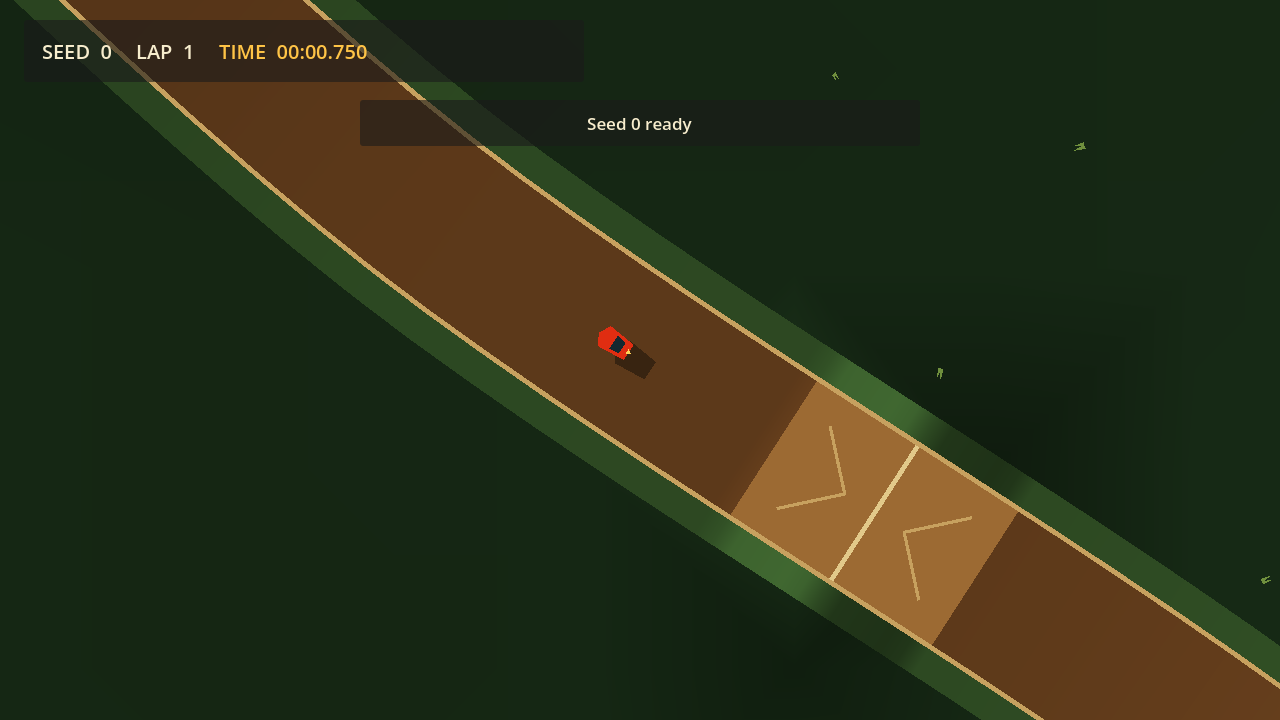
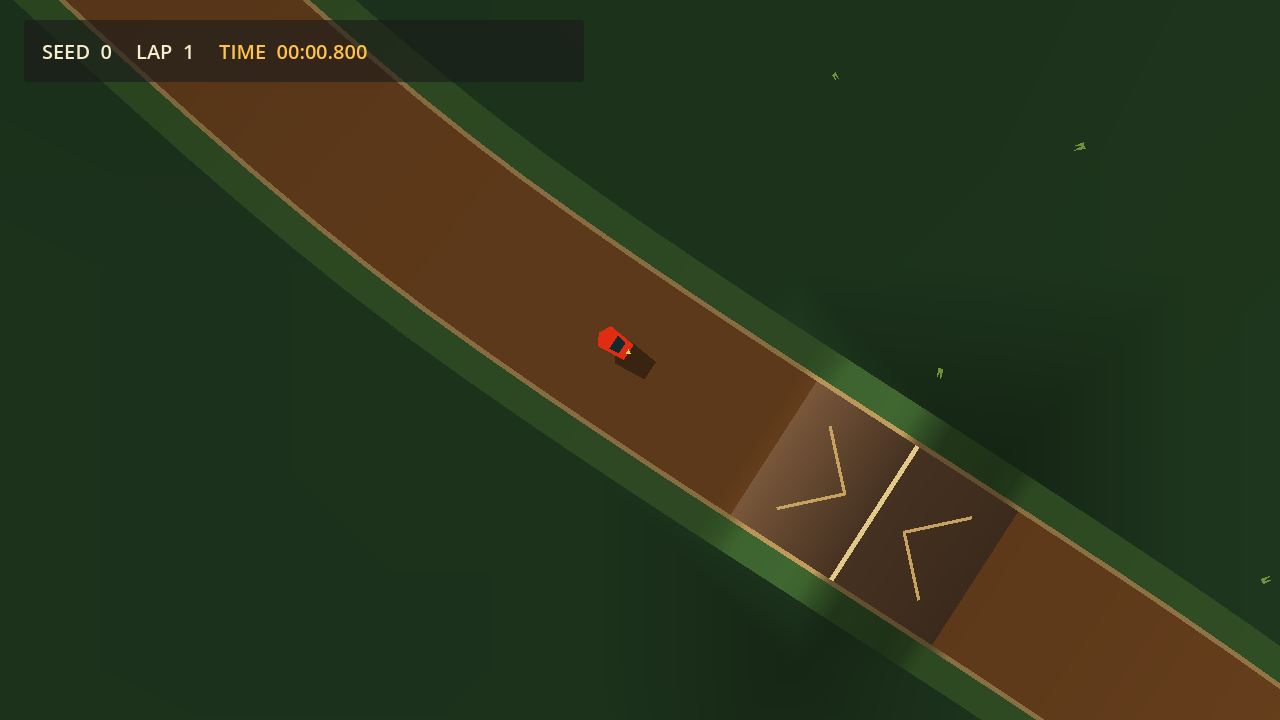
fix: shade the ramp wedges, lighten the ground, shade the boundary lines, pin the pre-clamp range
Review round 1 of #50. The wedges drew flat over shaded dirt, so a ramp in a hollow was the
brightest thing on screen; each wedge is now six vertices coloured from the same TrackHeightMap
1 px inside its corners, so it is as dark as its hollow, its crest 1.077x its feet, and its faces
lit from opposite sides. Ground base and session background lightened from #203a1e to #2b4b29 so
the multiplicative tint is a readable absolute step off-track; the guard is now an absolute
luminance spread. Boundary lines take a gradient like the ribbons. The clamped-against-its-clamp
range assertion is replaced by the pre-clamp product for every fill (wedge colour darkened to
#866040 to pass it; the boundary cream is the documented exception). on_feature coverage guards
on the grid and ribbons, a 5 px spawn floor on seed 10, both light signs on real terrain, the
null-query shadow direction, and the two self-comparisons dropped. Stills recaptured.

Claude-Session: https://claude.ai/code/session_01PJMEnk3Df8a182mzfdHNK5

diff --git a/docs/height-channel.md b/docs/height-channel.md
@@ -273,17 +273,37 @@ Two cues, one colour function, `TerrainShading.shade(base, sample)`:
   steepest saturates it. The gradient is the field's exact derivative, so the cue costs no second
   sample and no finite difference.
 
+The same function colours everything the track draws, so nothing can contradict the ground it
+sits on: the two road ribbons, the two boundary lines, and the ramp wedges. The first round left
+the wedges flat, and a ramp in a hollow drew as the brightest thing on screen — the exact failure
+this task exists to prevent; a wedge is now a six-point polygon (a foot, the crest and a foot on
+each side) coloured from the map 1 px inside each corner, so a ramp in a hollow is as dark as the
+hollow, its crest is 1.077× its feet from its own 9 px, and its two faces take the light from
+opposite sides from the wedge's own 0.06 slope (±0.17). Every fill colour is chosen so that base ×
+1.8 (full height and full light) stays inside the displayable range before the clamp — the wedge
+colour was darkened from `#9c6a33` to `#866040` for it; the boundary line's cream (`#c7a15f`,
+peak 1.405) is the one base that can saturate, and a 6 px line going toward white at the extreme
+is accepted.
+
 The ground is one `Polygon2D`: a vertex every 250 px over the play area, coloured from the sample
 at it, with the GPU interpolating between vertices. 250 px is the fingerprint and object-placement
 pitch; the finest octave the shipped catalog has is 750 px wide and 2.5 px tall, so three vertices
 per finest cell resolve everything the eye can see. Seed 0's 12 809 × 13 326 px play area is
 53 × 55 = 2 915 vertices; the largest of seeds 0–19 (seed 9, 16 962 × 14 684 px) is 69 × 60 = 4 140.
 At 4–5 µs a query that is 15–20 ms of sampling once per track build, measured at 7 µs a vertex
-all-in (colour arithmetic and array writes included), 20.6 ms for seed 0. The road ribbons stay
+all-in (colour arithmetic and array writes included), 20.6 ms for seed 0. With the four line
+gradients (about 4 × 1 100 samples, 22 ms) and six samples a wedge, a seed 0 build spends about
+45 ms on shading in all, once. The road ribbons stay
 `Line2D` nodes and take a `Gradient` with one stop per centreline sample — 1 102 to 1 496 more
 samples, 5–7 ms — placed by cumulative distance along the line, because that is how `Line2D`
-reads a gradient. Level ground is drawn in the session's background colour, so the play-area edge
-where the grid stops is not a seam. Rebuilding frees the previous grid; a seed restart frees the
+reads a gradient; the boundary lines take one the same way from their own points, another
+2 × 1 100–1 500 samples. Level ground is drawn in the session's background colour, so the play-area
+edge where the grid stops is not a seam. That colour was lightened in the fix round from `#203a1e`
+to `#2b4b29` (both the ground base and the background `ColorRect`): the shading is multiplicative,
+so on the darker base a 45% swing was a small absolute step and the off-track ground read as nearly
+flat next to the dirt; the suite now asserts an absolute luminance spread of at least 0.15 across
+the seed 0 grid (0.124 to 0.365 as shipped) rather than a relative one that a near-black base would
+pass. Rebuilding frees the previous grid; a seed restart frees the
 whole runtime with it.
 
 The one artefact of the approach is the mesh itself: `Polygon2D` splits each cell into two
@@ -301,7 +321,9 @@ along the light's axis and thrown further by `1 + 0.15 * metres` of terrain heig
 (the car's own 0.15 per metre), clamped to 0.5–2.0: a tree on a 40 px rise casts a shadow 1.48
 times as long as the same tree on level ground. The factory had placed every shadow in the
 object's local frame, so a rotated tree's shadow fell wherever the tree happened to turn; the
-shadows now fall away from the same light the ground is lit by, whatever the object's rotation.
+shadows now fall away from the same light the ground is lit by, whatever the object's rotation —
+on a track with no height query too, where the length stays the factory's but the direction is
+still the world's.
 
 ## Determinism
 
